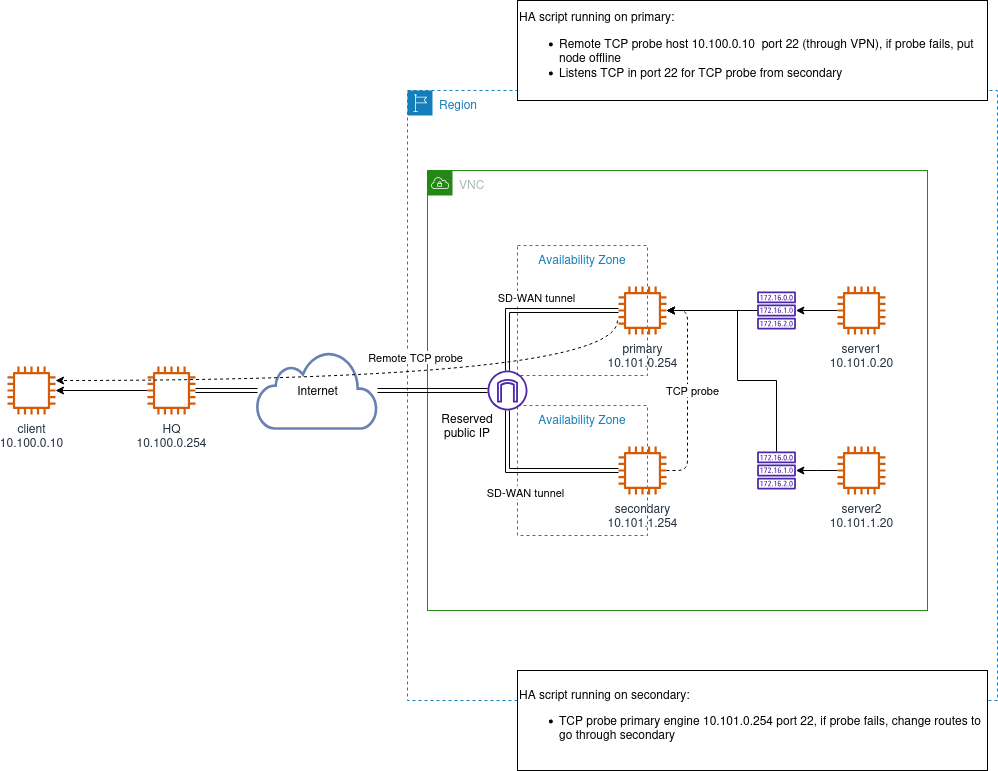
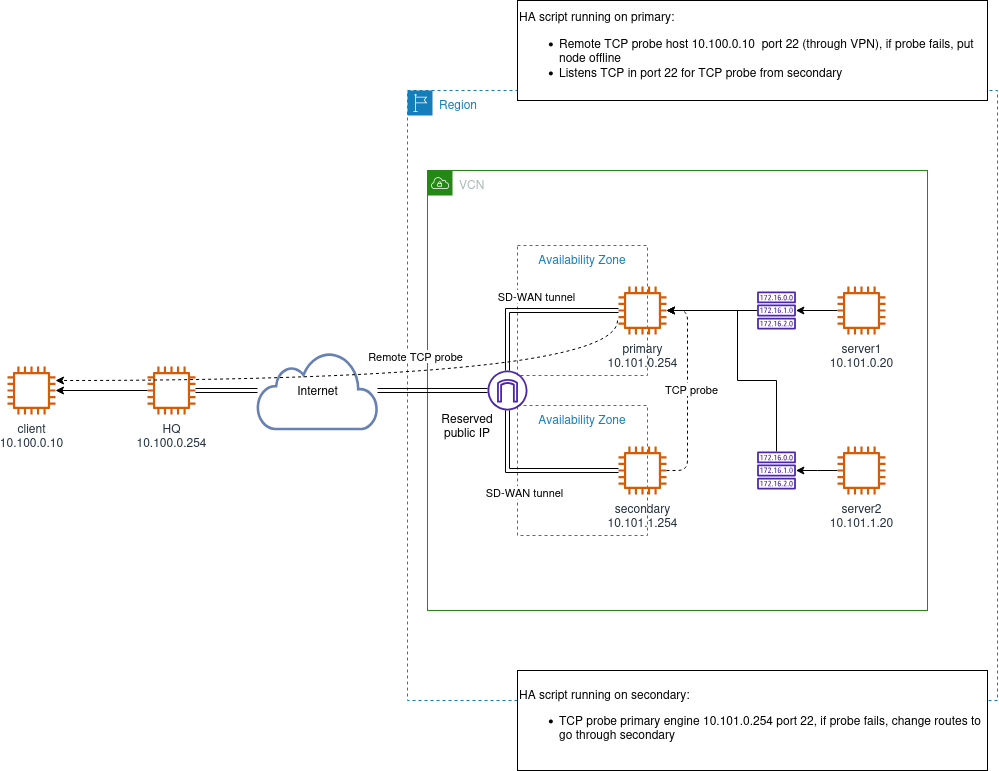
Update documentation
Documentation updates to keep up to date with other HA implementations.

diff --git a/README.md b/README.md
@@ -1,15 +1,63 @@
-# OCI HA script
+# OCI HA Script
 
-This repository provides OCI HA script for Forcepoint SD-WAN solution in Oracle
-Cloud Infrastructure.
+High-availability failover extension script for **Forcepoint Secure SD-WAN**
+(formerly Next Generation Firewall) engine pairs deployed in Oracle Cloud
+Infrastructure (OCI). The script runs on a primary/secondary pair of SD-WAN
+Engines and automatically reroutes traffic through the healthy engine when it
+detects a failure by updating OCI route tables and, optionally, reassigning a
+public IP address.
+
+## How It Works
+
+![HA script operations](./doc/ha_script-operations.png)
+
+- The **primary** engine monitors a remote host via TCP probing. If probing
+  fails, it marks itself offline via an OCI instance freeform tag.
+- The **secondary** engine monitors the primary via TCP probing. If the primary
+  is unreachable or marked offline, the secondary takes over by updating OCI
+  route tables (and optionally moving the public IP).
+
+## Key Features
+
+- Automatic failover via OCI route table updates
+- Optional public IP reassignment to the active engine
+- Compatibility with policy and route based VPN
+- TCP health probing (primary-to-remote and secondary-to-primary)
+- OCI Instance Principal authentication
+- Configurable via SMC Custom Properties, OCI instance freeform tags, or both
+- Debug and dry-run modes for safe testing
+
+## Prerequisites
+
+- Two Forcepoint Secure SD-WAN Engines deployed in OCI
+- OCI Instance Principal with permissions assigned to each instance
+- One or more OCI route tables directing internal traffic through the
+  firewall pair
+
+See the [User Guide](./doc/user_guide.md) for full setup and permission details.
 
 ## Configuration
 
-User guide for configuring the script can be found [here](./doc/user_guide.md).
+The script reads configuration from two sources that are merged at runtime:
+
+1. **SMC Custom Properties** - set in the Engine properties within the SMC
+2. **OCI instance freeform tags** - prefixed with `FP_HA_` (e.g.
+   `FP_HA_route_table_id`)
+
+When the same key appears in both sources, OCI instance freeform tags take
+precedence. Refer to the [User Guide](./doc/user_guide.md) for the full list
+of mandatory and optional properties.
 
 ## Development
 
 Building from source is only recommended if you want to modify the behaviour.
-Use prebuilt Github releases otherwise.
+Use prebuilt GitHub releases otherwise.
 
-Documentation for development can be found [here](./doc/development.md)
+- **Python 3.11** (via pyenv or similar)
+- Build the self-expanding zipapp installer: `make all`
+
+See [doc/development.md](./doc/development.md) for details.
+
+## License
+
+Licensed under the Apache License 2.0 - see [LICENSE](./LICENSE).
